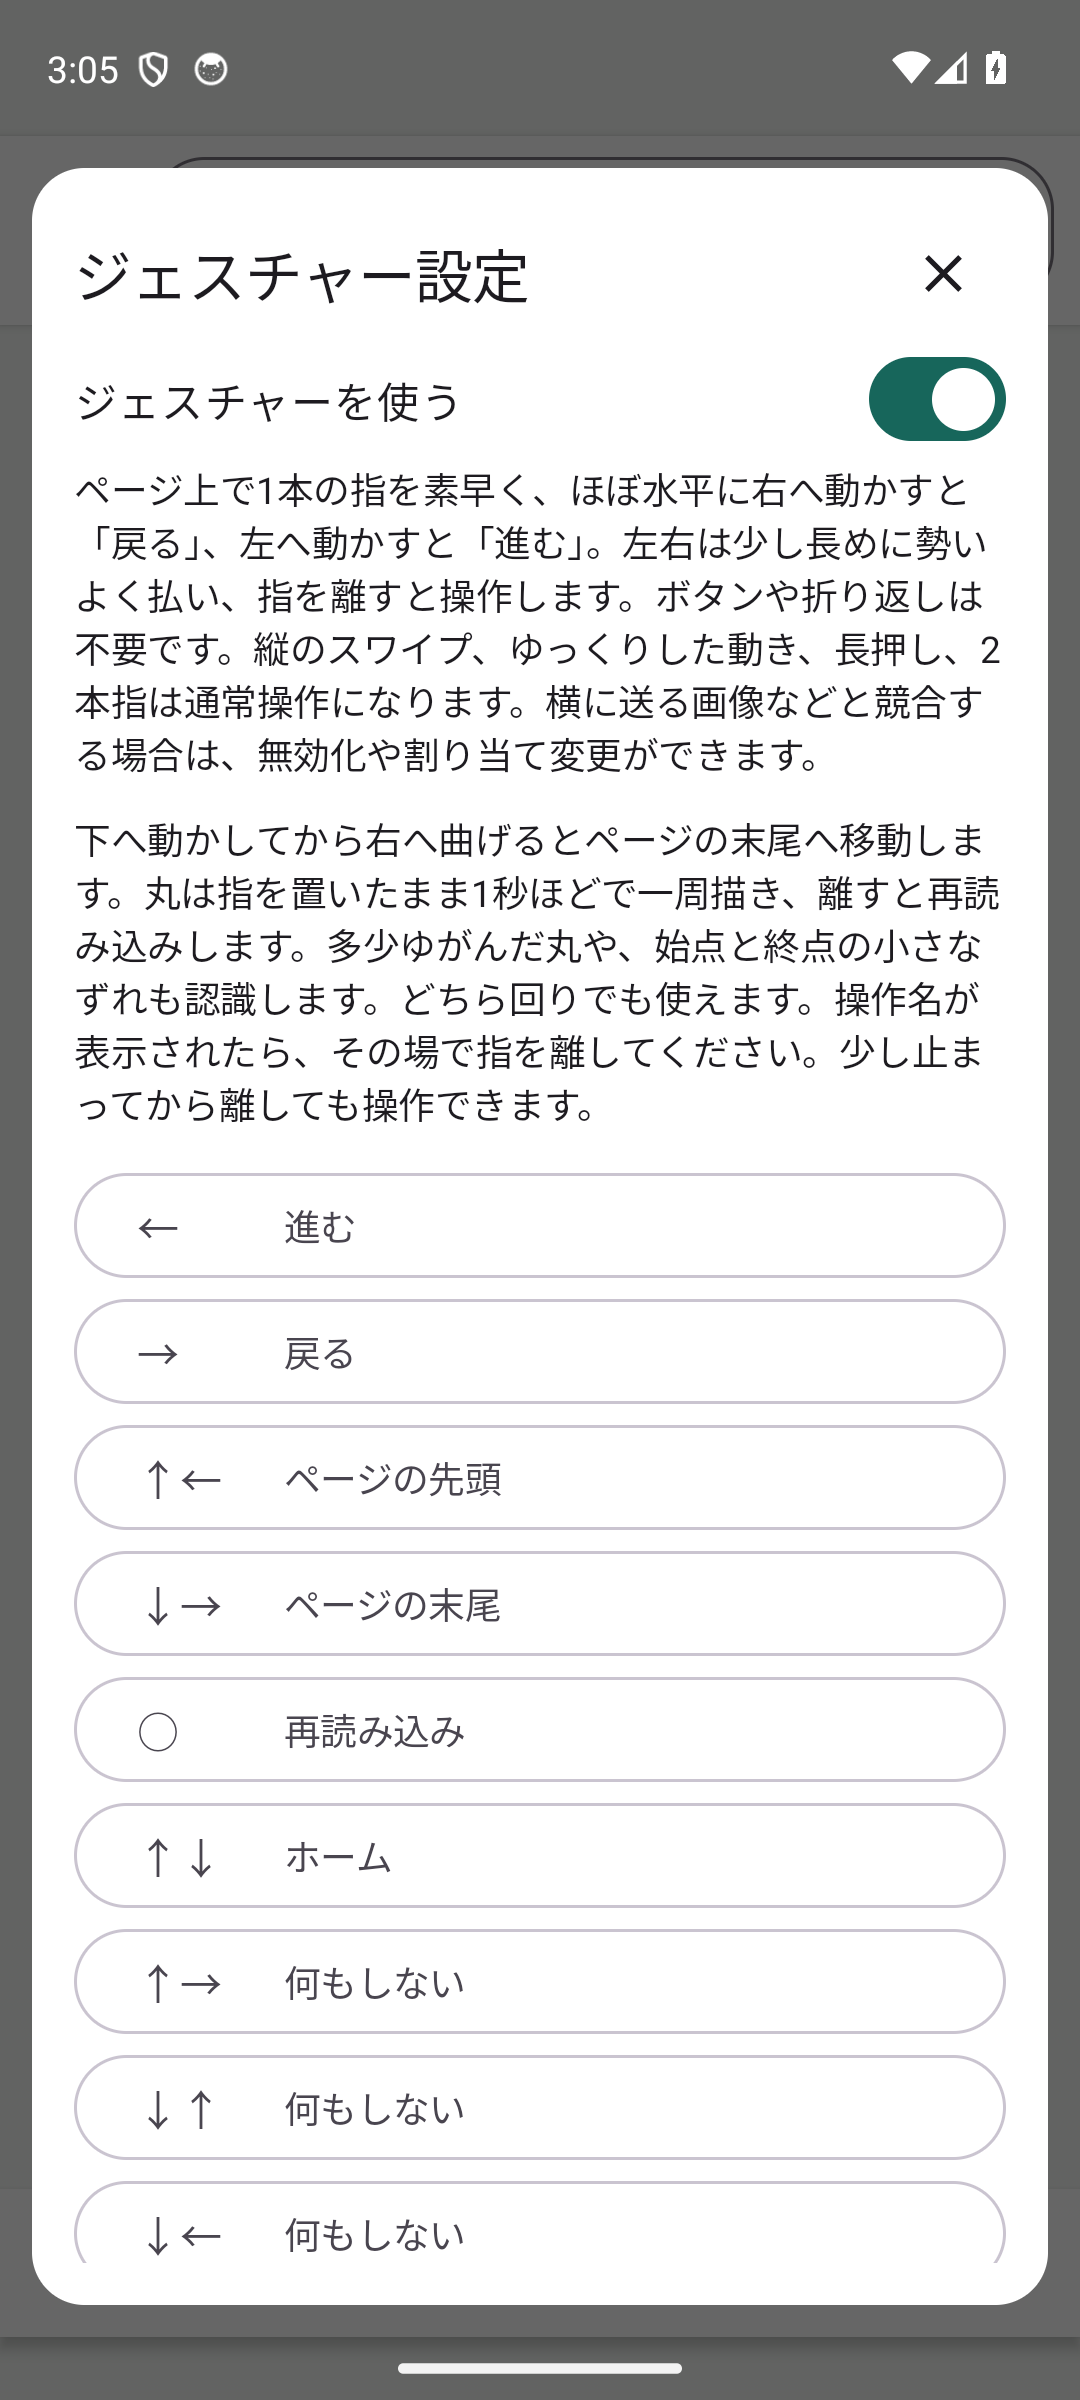
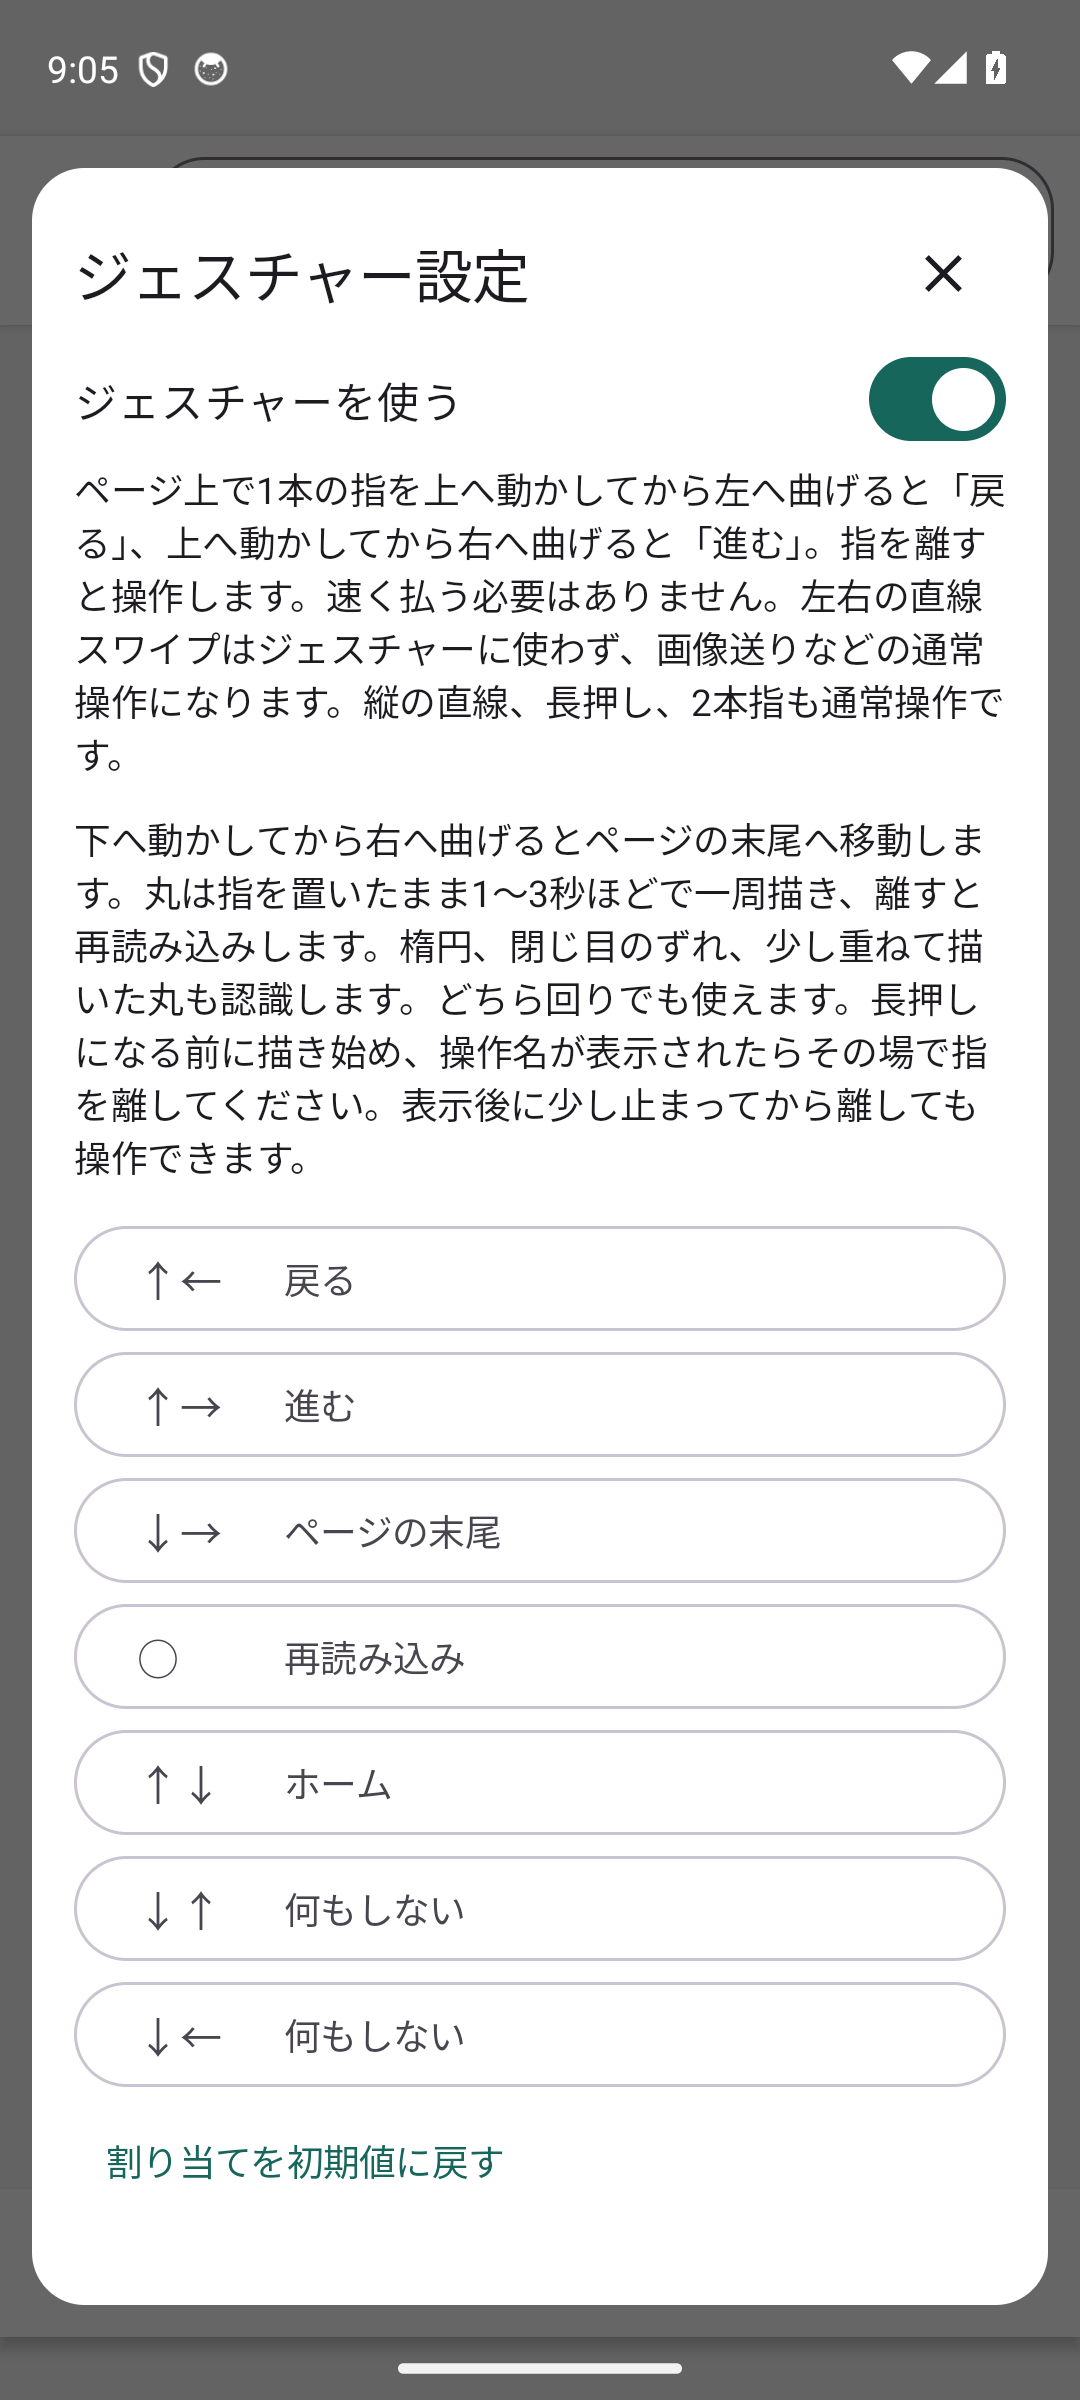
Publish Ichi Browser alpha40 and refresh update history, guide and privacy details

Changed region(s): [[0.0611, 0.1875, 0.9472, 0.9375]]

diff --git a/docs/ICHI-RELEASES.md b/docs/ICHI-RELEASES.md
@@ -16,9 +16,10 @@
 3. アプリ側の `tools/package-preview.py --site <このcheckout> --ublock-source <同じ版の上流ソースZIP>` で配布物と manifest を整える。対応ソースと通知は毎回その APK に一致するものを使う。エンジン・uBOの版を変更した場合は、このスクリプトのソース入手先とライセンスページの固定バージョンも更新する。
 4. このリポジトリの GitHub Releases に `ichi-<versionName>` の **pre-release** を作成。APK・SHA256SUMS・uBO対応ソース・通知だけを添付する。アプリ側の private-source-snapshot.zip や秘密鍵、設定、ログはアップロードしない。
 5. 公開した添付ファイルの匿名ダウンロード、サイズ、SHA-256を確認してから、このサイトの変更を main へ push する。APKを先に公開し、最新版案内を後に切り替える。
-6. Cloudflare Pages の成功後、紹介ページ・JSONの Content-Type と no-store・APK・アプリ内の手動更新確認を確認する。
+6. アプリの非公開リポジトリでは、検証したソースのコミットに `v<versionName>` タグを付け、APKハッシュと公開ReleaseのURLを記録する。公開用タグ `ichi-<versionName>` はこのサイトのコミットを指すため、アプリのソースコミットと混同しない。
+7. Cloudflare Pages の成功後、紹介ページ・JSONの Content-Type と no-store・APK・アプリ内の手動更新確認を確認する。
 
-manifest の必須項目は `schemaVersion: 1`、`applicationId: dev.shaka.singlebrowser`、`channel: preview`、`abi: arm64-v8a`、整数の `versionCode`・`minSdk`、`versionName`。アプリは手動操作時だけ固定HTTPSへ問い合わせ、versionCodeを比較します。URLの自動実行や APK の自動インストールは行いません。ページのダウンロード先・サイズ・SHA-256は同じデータ原本から表示します。
+manifest の必須項目は `schemaVersion: 1`、`applicationId: dev.shaka.singlebrowser`、`channel: preview`、`abi: arm64-v8a`、整数の `versionCode`・`minSdk`、`versionName`。alpha34以降のアプリは約24時間ごとと手動操作時に固定HTTPSへ問い合わせ、versionCodeを比較します。新しい対応版は従量制でないWi-Fiで取得し、インストールは利用者が開始してAndroidで確認します。自動確認・取得は設定でOFFにできます。ページのダウンロード先・サイズ・SHA-256は同じデータ原本から表示します。
 
 Google Playは別工程です。新版に問題がある場合は、案内と manifest を以前の版へ戻して理由を記載し、修正版はさらに大きい versionCode で出します。すでに入った新しい版を、古い versionCode の APK で上書きすることはできません。
 
